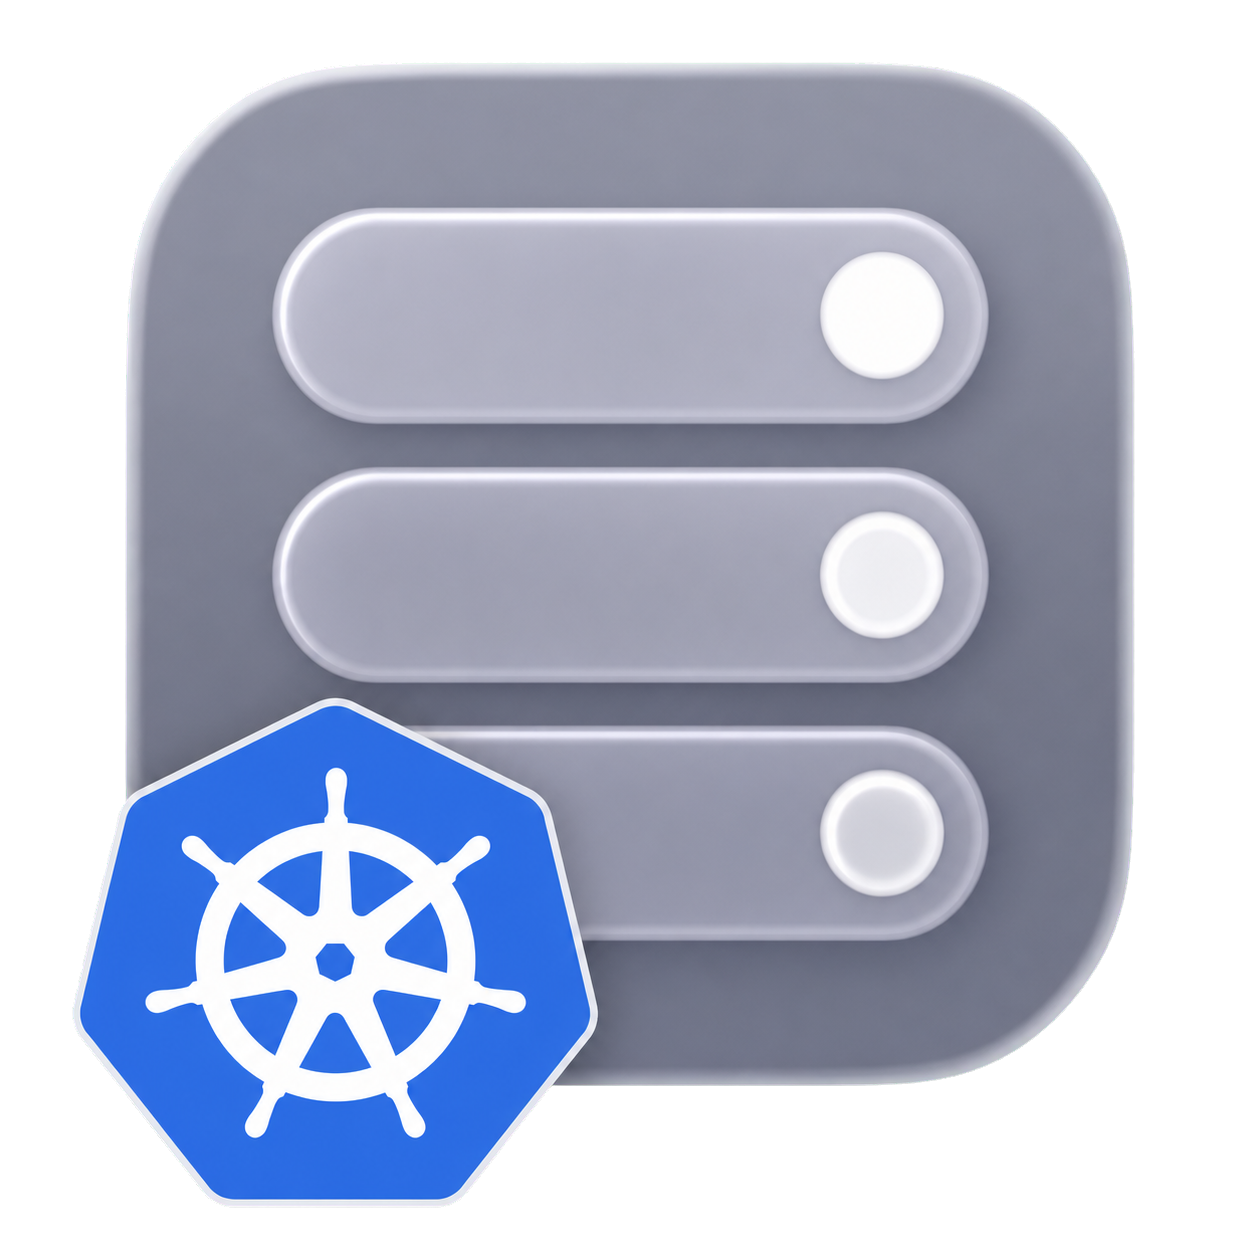
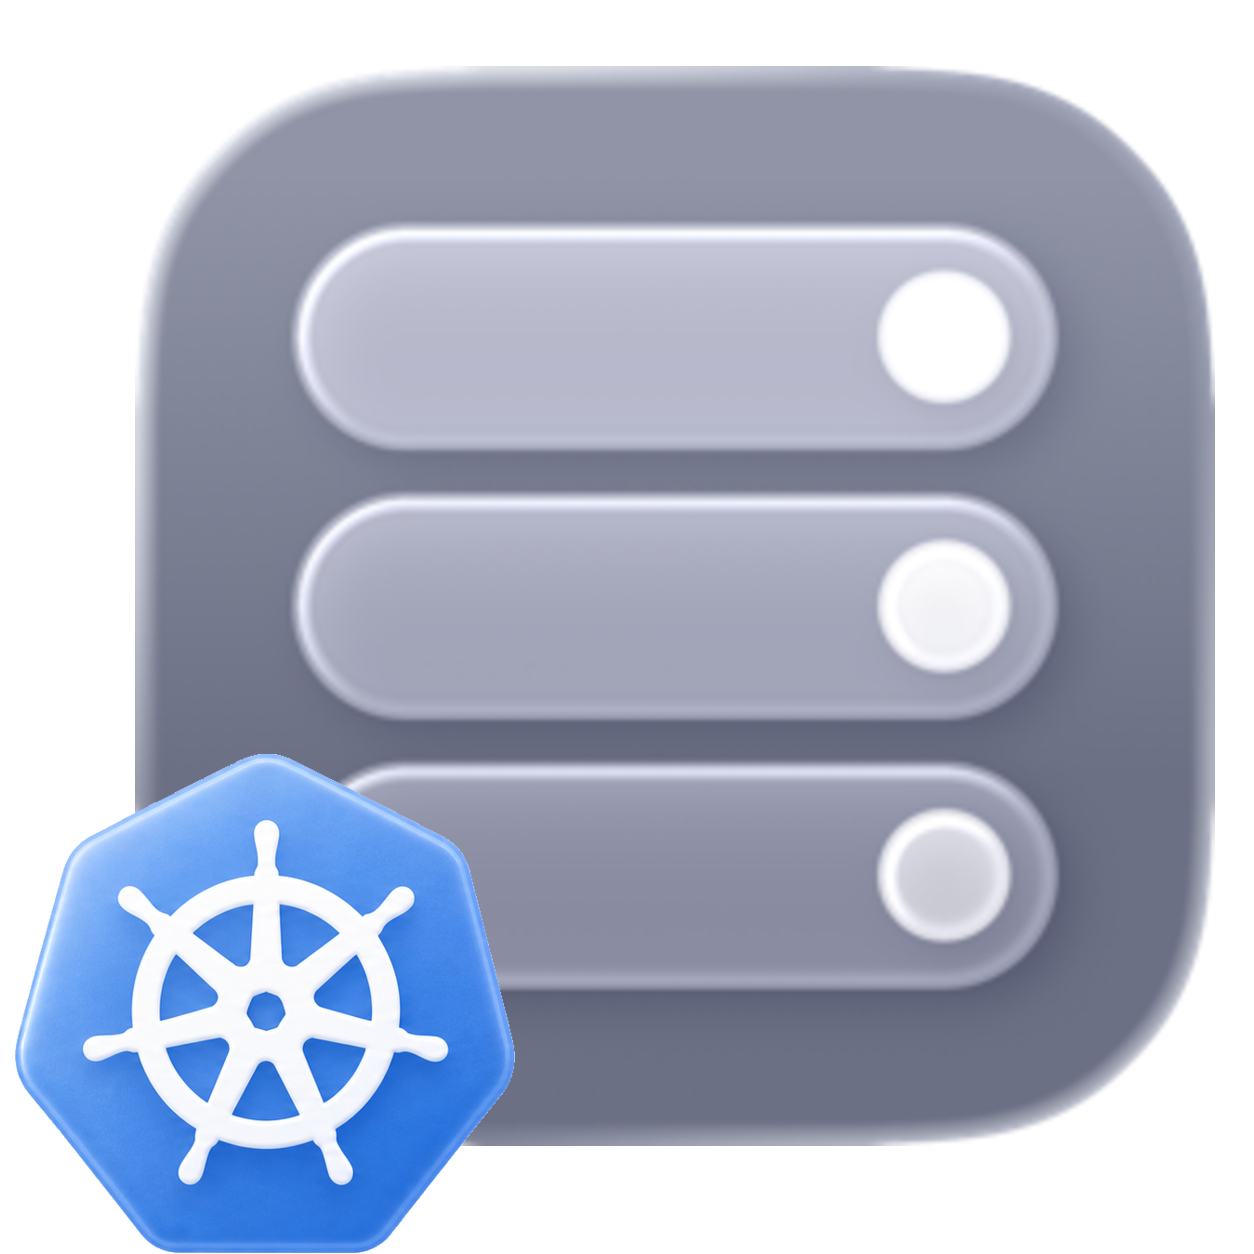
docs: adopt frosted Kubernetes artwork

diff --git a/README.md b/README.md
@@ -2,7 +2,7 @@
 
 <!-- markdownlint-disable MD033 -->
 <p>
-  <img align="left" hspace="20" src="docs/images/container-k8s-icon.png" width="147" alt="container-k8s icon: the Kubernetes wheel in front of three container service rows" />
+  <img align="left" hspace="20" src="docs/images/container-k8s-icon.png" width="147" alt="container-k8s icon: the Kubernetes wheel overlapping the standard three-row container service panel" />
   <a href="https://github.com/stephenlclarke/container-k8s/actions/workflows/ci.yml?query=branch%3Amain"><img alt="CI" src="https://github.com/stephenlclarke/container-k8s/actions/workflows/ci.yml/badge.svg?branch=main" /></a>
   <a href="https://github.com/stephenlclarke/container-k8s/actions/workflows/quality.yml?query=branch%3Amain"><img alt="Quality" src="https://github.com/stephenlclarke/container-k8s/actions/workflows/quality.yml/badge.svg?branch=main" /></a>
   <a href="https://github.com/stephenlclarke/container-k8s/actions/workflows/homebrew.yml?query=branch%3Amain"><img alt="Homebrew" src="https://github.com/stephenlclarke/container-k8s/actions/workflows/homebrew.yml/badge.svg?branch=main" /></a>
